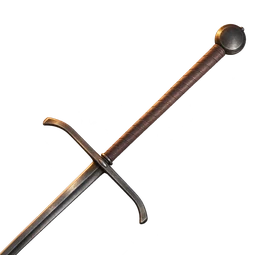
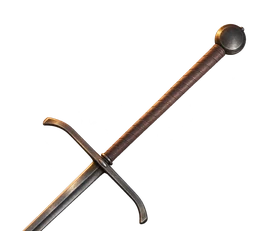
Blades fill their cards to the corner; type cards 8 px taller
- Blade cards draw the picture to the card's edges, so the blade runs
  out through the top-right corner with no gap.
- Type cards are 8 px taller than before (not 16), with the camera's
  room for the row to match.

Changed region(s): [[0.0, 0.0909, 0.9185, 1.0]]

diff --git a/src/components/forge/forge.css b/src/components/forge/forge.css
@@ -100,7 +100,7 @@
 .forge .item { min-width: 84px; padding: 0 2px; text-align: center; }
 .forge .item .card { position: relative; width: 72px; height: 72px; margin: 0 auto; border-radius: 6px; display: grid; place-items: center; transition: transform 160ms var(--ease-out), border-color 160ms, box-shadow 200ms; color: var(--gold-hi); }
 .forge .item .card svg { width: 64px; height: 64px; }
-/* Painted part pictures; a close-up (grips, steel finishes) runs to the card's edges, inside its rounded border. */
+/* Painted part pictures; a picture that runs off its edges (grips, steel finishes, blades) runs to the card's edges, inside its rounded border. */
 .forge .item .card .part-art { width: 66px; height: 66px; object-fit: contain; filter: drop-shadow(0 2px 3px rgba(0, 0, 0, .45)); pointer-events: none; }
 .forge .item .card .part-art.bleed { position: absolute; inset: 1px; width: calc(100% - 2px); height: calc(100% - 2px); object-fit: cover; border-radius: 5px; filter: none; }
 .forge .item .nm { display: block; margin-top: 7px; font: var(--type-label-sm); letter-spacing: var(--track-label); color: var(--gold); text-shadow: 0 1px 6px rgba(0, 0, 0, .8); white-space: nowrap; }
@@ -194,8 +194,8 @@
 .forge.focus .arch { transform: translateX(-50%) translateY(16px); }
 /* Type cards: square glass with the sword on a diagonal (pommel, grip, guard and the top of the blade),
    the name on a brass plate that forms the card's base. */
-.forge .tcard { box-sizing: border-box; width: 92px; height: 108px; padding: 0; border-radius: 6px; display: flex; flex-direction: column; align-items: center; justify-content: flex-end; transition: transform 150ms var(--ease-out); }
-/* The picture is made to the box above the plate (90×85): the same air above and right of the sword,
+.forge .tcard { box-sizing: border-box; width: 92px; height: 100px; padding: 0; border-radius: 6px; display: flex; flex-direction: column; align-items: center; justify-content: flex-end; transition: transform 150ms var(--ease-out); }
+/* The picture is made to the box above the plate (90×77): the same air above and right of the sword,
    the blade running out through the bottom edge. */
 .forge .tcard img { position: absolute; left: 1px; right: 1px; top: 1px; bottom: 22px; width: calc(100% - 2px); height: calc(100% - 23px); object-fit: fill; border-radius: 5px 5px 0 0; filter: drop-shadow(0 2px 4px rgba(0, 0, 0, .5)); }
 /* The plate runs flush to the card's edges, over its border, as the card's base. */

diff --git a/src/components/scene/Scene.tsx b/src/components/scene/Scene.tsx
@@ -47,8 +47,8 @@ type Panels = { top: number; bottom: number; right: number };
 // Must match forge.css: on phones (≤ 700 px) the type row is smaller, and in edit mode a sheet at the bottom
 // holds the choices (see PhoneSheet); formerly the inspector spanned the top of the screen (at most 42% of it) instead of the right side.
 const PHONE = 700;
-// The bottom inset clears the row of type cards (108 px tall; 0.8× on phones).
-const overviewPanels = (w: number): Panels => ({ top: 110, bottom: w <= PHONE ? 133 : 156, right: 0 });
+// The bottom inset clears the row of type cards (100 px tall; 0.8× on phones).
+const overviewPanels = (w: number): Panels => ({ top: 110, bottom: w <= PHONE ? 126 : 148, right: 0 });
 // The phone sheet's height (set from the store before each framing; the bar with Done sits below it).
 let phoneSheetPx = 200;
 const editPanels = (w: number, h: number): Panels => (w <= PHONE ? { top: Math.round(h * 0.03), bottom: phoneSheetPx + 80, right: 0 } : { top: MARGIN_TOP, bottom: PANEL_BOTTOM, right: PANEL_RIGHT });

diff --git a/src/components/forge/choices.tsx b/src/components/forge/choices.tsx
@@ -34,7 +34,7 @@ export function useStationChoices(station: StationId | null): StationChoices | n
   if (station === 'blade') {
     const profiles = profilesOf(config);
     cards = profiles.map((p) => ({ id: p.id, name: p.name, era: p.era, period: true, off: null, selected: (config.blade.profile ?? profiles[0].id) === p.id, note: p.note,
-      art: <PartArt name={`blade-${arch}-${p.id}`} />, apply: () => update('blade', profileBlade(p)) }));
+      art: <PartArt name={`blade-${arch}-${p.id}`} bleed />, apply: () => update('blade', profileBlade(p)) }));
     // Options on top of the profile. A choice equal to the profile's own is stored as "not changed",
     // so the Form still reads as itself.
     const spec = bladeSpec(config), profile = currentProfile(config), own = profile ? profileSpec(arch, profile) : spec;

diff --git a/src/components/forge/PartArt.tsx b/src/components/forge/PartArt.tsx
@@ -1,5 +1,6 @@
 // A part card's picture: the part rendered alone by our own engine and painted in the type cards' style
-// (public/parts/<name>.webp). Grips and steel finishes are close-ups of the material, so they fill the card.
+// (public/parts/<name>.webp). Grips and steel finishes are close-ups of the material, and blades run out through a corner, so
+// they fill the card.
 const BASE = import.meta.env.BASE_URL;
 
 export function PartArt({ name, bleed = false }: { name: string; bleed?: boolean }) {
